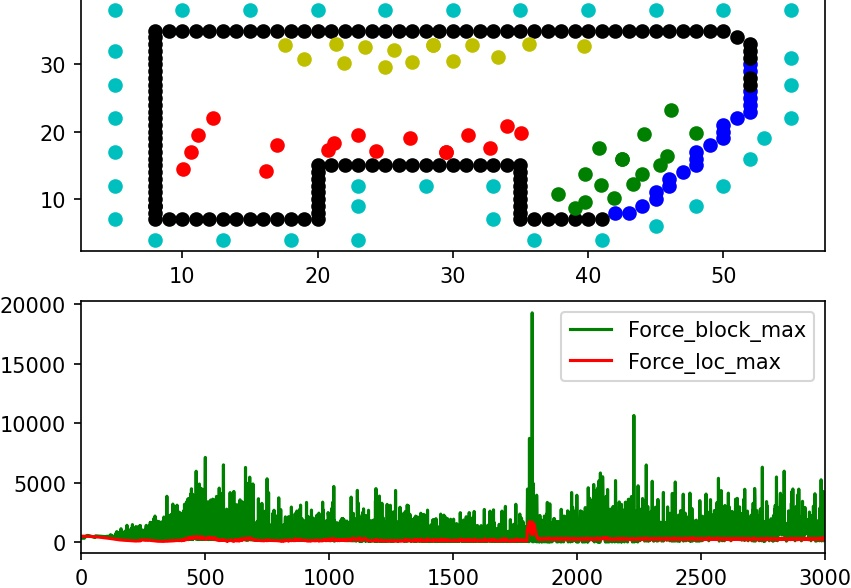
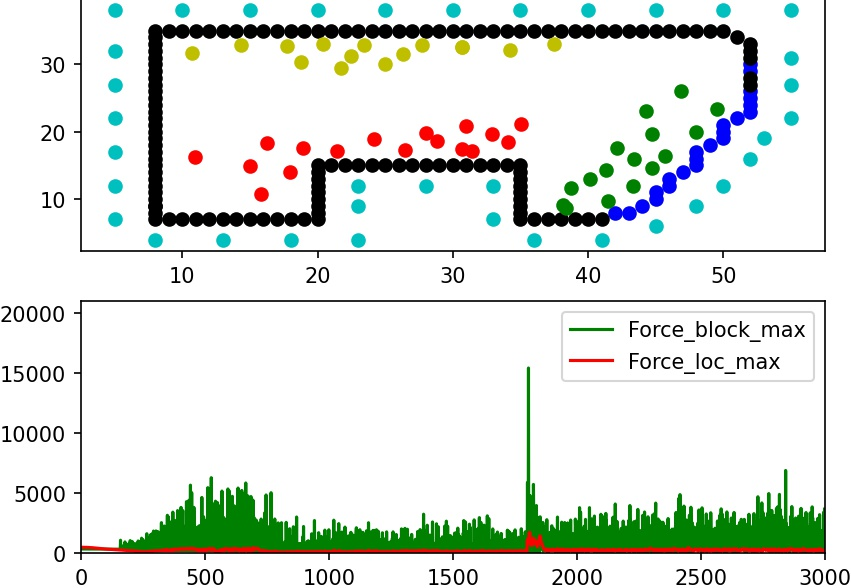
The first test have been added.

diff --git a/Moving/objects_moving.py b/Moving/objects_moving.py
@@ -1,6 +1,7 @@
 import numpy as np
 import matplotlib.pyplot as plt
 import progressbar as pb
+import networkx as nx  # import module for founding the shortest path
 from PIL import Image
 
 
@@ -419,6 +420,39 @@ class Particle_wsarm:
                            step)
             self.micro_process()
 
+    def show_short_path(self, x_path, y_path, length=3000):
+        fig, ax = plt.subplots(2)
+        ax[1].set_xlim(0, length)
+        ax[1].set_ylim(0, 21000)
+        for i, bl_cl in enumerate(self.blok_cl):
+            color_set = 'b'
+            if i == 1:
+                color_set = 'k'
+            elif i == 2:
+                color_set = 'c'
+            for cs in bl_cl:
+                ax[0].scatter(self.points_block_x[cs[0]:cs[1]], self.points_block_y[cs[0]:cs[1]],
+                              color=color_set)
+
+        # ax[0].scatter(self.points_block_x, self.points_block_y)
+        for i, cl_raw in enumerate(self.indexs_cl):
+            color_set = 'y'
+            if i == 1:
+                color_set = 'g'
+            elif i == 2:
+                color_set = 'r'
+            ax[0].scatter(self.points_obj_x[cl_raw[0]:cl_raw[1] + 1],
+                          self.points_obj_y[cl_raw[0]:cl_raw[1] + 1], color=color_set)
+        ax[1].plot(self.x_axis, self.force_block_max, label="Force_block_max", color='g')
+        ax[1].plot(self.x_axis, self.force_loc_max, label="Force_loc_max", color='r')
+
+        ax[0].plot(x_path, y_path)
+
+        # ax[1].text(480, 10, t)
+        ax[1].legend()
+
+        fig.savefig(f"Result_short_path.jpg", dpi=150, bbox_inches='tight', pad_inches=0)
+        plt.close(fig)
 
 class Corridors:
     '''
@@ -440,7 +474,7 @@ class Corridors:
         :param x_doors: vector x of drops for connection;
         :param y_doors: vector y of drops for connection;
         '''
-        import networkx as nx  # import modul for founding the shortest path
+
         self.G = nx.Graph()  # inition of Graph
 
         self.x_obj = x_obj  # inition of input data
@@ -449,6 +483,16 @@ class Corridors:
         self.Num_cl = Num_cl
         self.x_doors = x_doors
         self.y_doors = y_doors
+
+        self.x_arr = []
+        self.y_arr = []
+        self.w_dist = []
+        self.qu_w_dist = []
+        self.qu_mask_bt_cl = []
+        self.mask_bt_cl = []
+        self.w_dist_bw = []
+        self.weights = []
+        self.indexes = []
 
     def find_ar_point(self):
         '''
@@ -459,7 +503,7 @@ class Corridors:
         np.fill_diagonal(qu_obj_x, 0)  # removing diagonal elements from x matrix
         np.fill_diagonal(qu_obj_y, 0)  # removing diagonal elements from y matrix
 
-        # FOR DEBUGING: signs maight be changed
+        # FOR DEBUGING: signs might be changed
         x_arr = qu_obj_x - (qu_obj_x.transpose() - qu_obj_x) / 2  # founding average points x
         y_arr = qu_obj_y - (qu_obj_y.transpose() - qu_obj_y) / 2  # founding average points y
 
@@ -480,13 +524,13 @@ class Corridors:
         self.y_arr = np.array(y_arr_list)  # adding y list into class
 
     def between_class_mask(self):
-        '''
+        """
         Function founds attention between drops: if points are in one class, value will be 1, otherwise - 0
-        '''
+        """
         pr_mask = np.eye(len(self.Num_cl))  # creating matrix with 1 in diagonal indexes
-        obj_dist = np.repeat(np.repeat(pr_mask, self.Num_cl, axis=0), self.Num_cl, axis=1)  # expanding one-matrix
+        qu_pr_mask = np.repeat(np.repeat(pr_mask, self.Num_cl, axis=0), self.Num_cl, axis=1)  # expanding one-matrix
         # to like attention between drops matrix
-        np.fill_diagonal(obj_dist, 0)  # removing elements from diagonal
+        np.fill_diagonal(qu_pr_mask, 0)  # removing elements from diagonal
 
         mask_between_class = []  # void list for saving attention between drops
 
@@ -494,17 +538,22 @@ class Corridors:
         Attention between points matrix are transformed to list as the elements above diagonal 
         '''
 
-        # FOR DEBUGING: Points could be lost due to offset
+        # FOR DEBUGGING: Points could be lost due to offset
         for raw in range(0, self.x_obj.shape[0] - 1):
-            for colomn in range(raw + 1, self.x_obj.shape[0]):
-                mask_between_class.append(obj_dist[raw, colomn])  # adding 0 or 1 into attention list
+            for column in range(raw + 1, self.x_obj.shape[0]):
+                mask_between_class.append(qu_pr_mask[raw, column])  # adding 0 or 1 into attention list
 
         self.mask_bt_cl = np.array(mask_between_class)  # saving attention list
 
+        qu_mask_bt_cl = np.array([self.mask_bt_cl, ] * self.mask_bt_cl.shape[0])  # transforming attention list to sq_m
+        np.fill_diagonal(qu_mask_bt_cl, 0)  # removing elements from diagonal
+
+        self.qu_mask_bt_cl = qu_mask_bt_cl  # saving weights
+
     def find_dist_obj(self):
-        '''
+        """
         Function founds weights of average points as the distant between drops.
-        '''
+        """
         qu_obj_x = np.array([self.x_obj, ] * self.x_obj.shape[0])  # transforming vec x to square matrix
         qu_obj_y = np.array([self.y_obj, ] * self.y_obj.shape[0])  # transforming vec y to square matrix
         np.fill_diagonal(qu_obj_x, 0)  # removing diagonal elements from x matrix
@@ -513,8 +562,8 @@ class Corridors:
         pr_d_x = qu_obj_x - qu_obj_x.transpose()  # founding x distant matrix
         pr_d_y = qu_obj_y - qu_obj_y.transpose()  # founding y distant matrix
 
-        # FOR DEBUGING: Posibility to find distant as square root of sum square
-        w_dist = pr_d_x + pr_d_y  # common distant
+        # FOR DEBUGGING: Possibility to find distant as square root of sum square
+        w_dist = np.sqrt(np.square(pr_d_x) + np.square(pr_d_y))  # common distant
 
         '''
         Average points matrix are transformed to list as the elements above diagonal 
@@ -522,18 +571,41 @@ class Corridors:
         pr_dist_list = []  # void list for weights
 
         for raw in range(0, self.x_obj.shape[0] - 1):
-            for colomn in range(raw + 1, self.x_obj.shape[0]):
-                pr_dist_list.append(w_dist[raw, colomn])
+            for column in range(raw + 1, self.x_obj.shape[0]):
+                pr_dist_list.append(w_dist[raw, column])
 
-        self.w_dist = np.array(pr_dist_list)  # saving dastant list
+        self.w_dist = np.array(pr_dist_list)  # saving distant list
+
+        qu_w_dist = np.array([self.w_dist, ] * self.w_dist.shape[0])  # transforming distant list to square matrix
+        np.fill_diagonal(qu_w_dist, 0)  # removing diagonal elements
+
+        self.qu_w_dist = qu_w_dist  # saving weight distant matrix
 
     def add_points(self):
-        pass
+        """
+        The function adds points for connection as new drops.
+        That have to be used after using function for founding weights (find_dist_obj, between_class_mask), but before
+        (find_dist_ar_p).
+        Otherwise the find_dist_ar_p have to be recalculated.
+        """
+        self.x_arr = np.append(self.x_arr, self.x_doors)  # Adding x of doors
+        self.y_arr = np.append(self.y_arr, self.y_doors)  # Adding y of doors
+
+        qu_w_dist_zeros = np.zeros(
+            [self.x_arr.shape[0], self.x_arr.shape[0]])  # creating the zero matrix size with new points
+        qu_mask_bt_cl_zeros = np.zeros([self.x_arr.shape[0], self.x_arr.shape[0]])
+
+        qu_w_dist_zeros[:self.qu_w_dist.shape[0], :self.qu_w_dist.shape[1]] = self.qu_w_dist  # coping the old result
+        # into expended matrix
+        qu_mask_bt_cl_zeros[:self.qu_mask_bt_cl.shape[0], :self.qu_mask_bt_cl.shape[1]] = self.qu_mask_bt_cl
+
+        self.qu_mask_bt_cl = qu_mask_bt_cl_zeros  # saving the matrix of attention weights
+        self.qu_w_dist = qu_w_dist_zeros  # saving the matrix of distant weights
 
     def find_dist_ar_p(self):
-        '''
+        """
         Function founds weights of average points as the distant between average points.
-        '''
+        """
         qu_obj_x = np.array([self.x_arr, ] * self.x_arr.shape[0])  # transforming vec average x to square matrix
         qu_obj_y = np.array([self.y_arr, ] * self.y_arr.shape[0])  # transforming vec average y to square matrix
         np.fill_diagonal(qu_obj_x, 0)  # removing diagonal elements from x matrix
@@ -543,34 +615,58 @@ class Corridors:
         pr_d_y = qu_obj_y - qu_obj_y.transpose()  # founding y distant matrix
 
         # FOR DEBUGGING: Distant between points could be saved as list
-        # FOR DEBUGGING: The arguments of next function could be sum of squares
-        self.w_dist_bw = np.sqrt(pr_d_x + pr_d_y)  # Getting and saving the distant between points
+        self.w_dist_bw = np.sqrt(np.square(pr_d_x) + np.square(pr_d_y))  # Getting and saving the distant between points
 
-    def summing_w(self):
-        '''
+    def summing_w(self, k_w_dist=1, k_mask_bt_cl=10, k_dist_bw=1):
+        """
         Function sums the weights (distant between average points, distant between drops, attention between drops)
-        '''
+        """
         # FOR DEBUGGING: The coefficient have to be rejected
-        bcl_mask = np.array([self.mask_bt_cl, ] * self.mask_bt_cl.shape[0]) * 10  # Transforming list to square matrix
-        first_dist = np.array([self.w_dist, ] * self.w_dist.shape[0])
-        self.weights = bcl_mask + first_dist + self.w_dist_bw  # Summing weights
+        self.weights = self.qu_w_dist * k_w_dist + self.qu_mask_bt_cl * k_mask_bt_cl \
+                       + self.w_dist_bw * k_dist_bw  # Summing weights
 
-    def exception_weight(self):
-        '''
-        Function founds the points where distant less then threshold
-        '''
+    def exception_weight(self, thr=0.15):
+        """
+        Function founds the points where the distant between points less then threshold
+        """
         # FOR DEBUGGING: The threshold have to be rejected
         max_dist = np.max(self.w_dist_bw)  # Founding the maximal distant
-        self.indexs = np.where(self.w_dist_bw <= max_dist * 0.3)  # Founding the indexes less then threshold
+        self.indexes = np.argwhere(self.w_dist_bw <= max_dist * thr)  # Founding the indexes less then threshold
 
     def set_graph(self):
-        nodes = np.array(np.arange(0, self.x_arr.shape[0]))
-        self.G.add_nodes_from(nodes)
-        for edge in self.indexs:
-            self.G.add_edge(edge[0], edge[1], {'weight': self.weights[edge[0], edge[1]]})
+        """
+        Function fill graph
+        """
+        nodes = np.array(np.arange(0, self.x_arr.shape[0]))  # Creating range list for nodes names
+        self.G.add_nodes_from(nodes)  # Initialling the nodes of graph
+        for edge in self.indexes:
+            if edge[0] == edge[1]:  # exception diagonal points
+                continue
+            self.G.add_edge(edge[0], edge[1], weight=self.weights[edge[0], edge[1]])  # Adding edge weights
 
     def shortest_path(self):
-        pass
+        """
+        The function finds the shortest path between two last points
+        """
+        path = nx.shortest_path(self.G, source=self.x_arr.shape[0] - 2, target=self.x_arr.shape[0] - 1, weight='weight')
+        path_x = self.x_arr[path]
+        path_y = self.y_arr[path]
+        return path_x, path_y
+
+    def first_test(self):
+        """
+        The function tests all functions
+        """
+        self.find_ar_point()
+        self.between_class_mask()
+        self.find_dist_obj()
+        self.add_points()
+        self.find_dist_ar_p()
+        self.summing_w()
+        self.exception_weight()
+        self.set_graph()
+        path_x, path_y = self.shortest_path()
+        return path_x, path_y
 
 
 def get_data(cl_att_cl, Num_cl, bloks, blok_cl, bl_att_cl):
@@ -829,3 +925,8 @@ if __name__ == "__main__":
     P_w = Particle_wsarm(cl_att_cl, Num_cl, Points_block, block_cl, bl_att_cl, Points_obj, step)
     # P_w = Particle_wsarm(Points_obj, Points_block, obj_dist, koef_obj, block_distance, koef_block, indexs_cl, step)
     P_w.process()
+    current_x_obj = P_w.points_obj_x
+    current_y_obj = P_w.points_obj_y
+    P_corridors = Corridors(current_x_obj, current_y_obj, cl_att_cl, Num_cl, [52, 7], [31, 22])
+    result_path_x, result_path_y = P_corridors.first_test()
+    P_w.show_short_path(result_path_x, result_path_y)
